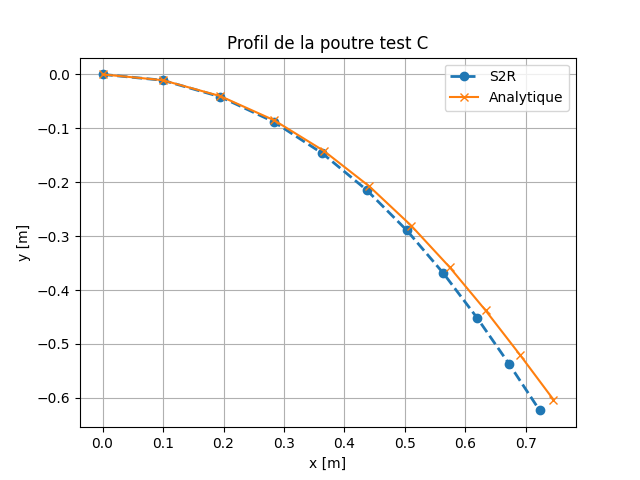
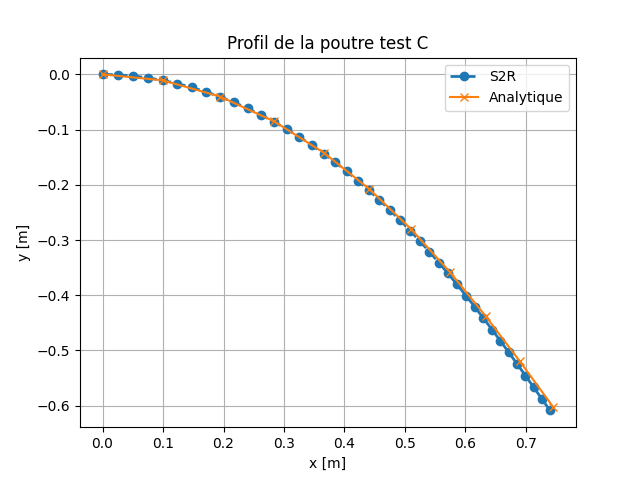
Analyse de convergence pour F2S et S2R

diff --git a/testA_elastica.py b/testA_elastica.py
@@ -1,0 +1,121 @@
+import sys
+import os
+sys.path.insert(0, os.path.expanduser('~/PyElastica'))
+
+
+import numpy as np
+from elastica import *
+from elastica.timestepper import integrate
+from scipy.spatial.transform import Rotation as R  # Pour la conversion en quaternions
+from elastica.external_forces import EndpointForces
+
+class HorizontalRodSimulator(BaseSystemCollection, Constraints, Forcing, Damping, CallBacks):
+    pass
+
+# ============================================
+# CONFIGURATION DU SIMULATEUR
+# ============================================
+rod_sim = HorizontalRodSimulator()
+
+n_elements = 10
+base_length = 1 
+base_radius = 0.01  
+total_mass = 1  # pas de masse
+youngs_modulus = 1e6
+poisson_ratio = 0.38  
+
+volume = np.pi * base_radius**2 * base_length
+density = total_mass / volume  
+shear_modulus = youngs_modulus / (2.0 * (1.0 + poisson_ratio))
+
+I = np.pi * base_radius**4 / 4.0
+EI = youngs_modulus * I
+
+# Créer la tige
+rod = CosseratRod.straight_rod(
+    n_elements=n_elements,
+    start=np.array([0.0, 0.0, 0.0]),
+    direction=np.array([1.0, 0.0, 0.0]),
+    normal=np.array([0.0, 1.0, 0.0]),
+    base_length=base_length,
+    base_radius=base_radius,
+    density=density,
+    youngs_modulus=youngs_modulus,
+    shear_modulus=shear_modulus
+)
+rod_sim.append(rod)
+
+# Forces, limites et amortissement
+rod_sim.constrain(rod).using(OneEndFixedBC, constrained_position_idx=(0,), constrained_director_idx=(0,))
+rod_sim.dampen(rod).using(AnalyticalLinearDamper, uniform_damping_constant=0.1, time_step=1e-4)
+
+F_small = 1.0e-3
+start_force = np.array([0, 0, 0])
+end_force = np.array([0, -F_small, 0])
+rod_sim.add_forcing_to(rod).using(EndpointForces, start_force=start_force, end_force=end_force, ramp_up_time=1.0)
+
+rod_sim.finalize()
+
+# Configuration temporelle
+final_time = 300.0  
+time_step = 1e-4
+total_steps = int(final_time / time_step)
+
+timestepper = PositionVerlet()
+do_step, stages_and_updates = extend_stepper_interface(timestepper, rod_sim)
+
+save_interval = 200  
+
+# ============================================
+# BOUCLE DE SIMULATION ET EXPORT TEXTE
+# ============================================
+nom_fichier = "donnees_tige.txt"
+print(f"Simulation démarrée. Écriture dans : {nom_fichier}...")
+
+with open(nom_fichier, "w") as f:
+    # Écriture de l'en-tête pour s'y retrouver
+    f.write("# Fichier de données PyElastica pour couplage/test SOFA\n")
+    f.write(f"# n_elements = {n_elements} (n_nodes = {n_elements + 1})\n")
+    f.write("# Format par frame :\n")
+    f.write("# FRAME [num_frame] TIME [temps]\n")
+    f.write("# NODE [idx] x y z\n")
+    f.write("# ELEM [idx] qw qx qy qz\n")
+    f.write("# --------------------------------------------------------\n")
+
+    frame_count = 0
+
+    for step in range(total_steps):
+        time = step * time_step
+        
+        if step % save_interval == 0:
+            f.write(f"FRAME {frame_count} TIME {time:.4f}\n")
+            
+            # 1. Sauvegarde des POSITIONS (définies aux Noeuds : n_elements + 1)
+            positions = rod.position_collection # Shape (3, n_nodes)
+            for i in range(positions.shape[1]):
+                f.write(f"NODE {i} {positions[0, i]:.6f} {positions[1, i]:.6f} {positions[2, i]:.6f}\n")
+            
+            # 2. Sauvegarde des ORIENTATIONS (définies aux Éléments : n_elements)
+            # PyElastica stocke des matrices de rotation 3x3 pour chaque élément
+            directors = rod.director_collection # Shape (3, 3, n_elements)
+            for e in range(directors.shape[2]):
+                matrice_rotation = directors[:, :, e]
+                
+                # Conversion de la matrice 3x3 en Quaternion (Scipy utilise le format x, y, z, w)
+                r = R.from_matrix(matrice_rotation)
+                quat = r.as_quat() 
+                
+                # Réorganisation au format standard (w, x, y, z) souvent préféré en physique/SOFA
+                qw, qx, qy, qz = quat[3], quat[0], quat[1], quat[2]
+                
+                f.write(f"ELEM {e} {qw:.6f} {qx:.6f} {qy:.6f} {qz:.6f}\n")
+            
+            frame_count += 1
+            
+            if frame_count % 100 == 0:
+                print(f"Progression : {step / total_steps * 100:.1f}% ({frame_count} frames écrites)")
+
+        # Pas de simulation
+        do_step(timestepper, stages_and_updates, rod_sim, time, time_step)
+
+print(f"\nTerminé ! {frame_count} frames ont été exportées avec succès.")

diff --git a/Rod_StaticValidation.py b/Rod_StaticValidation.py
@@ -31,8 +31,6 @@ from scipy.integrate import solve_bvp
 from readData import lire_donnees_tige, lire_monitor_sofa
 
 nb_section = 10
-beam_length = 1
-
 
 L = 1.0                       # longueur [m]
 radius = 0.01                 # rayon section circulaire [m]
@@ -40,7 +38,7 @@ E = 1.0e6                      # module de Young [Pa]
 I = np.pi * radius**4 / 4.0    # moment d'inertie de section [m^4]
 EI = E * I
  
-# print(f"EI = {EI:.6e} N.m^2")
+# # print(f"EI = {EI:.6e} N.m^2")
  
  
 
@@ -352,24 +350,24 @@ EI = E * I
 
 ## Test C
 
-data_testC = np.loadtxt("test_C_profile.txt")
+# data_testC = np.loadtxt("test_C_profile.txt")
 
-x_testC = data_testC[0:, 1]
-y_testC = data_testC[0:, 2]
+# x_testC = data_testC[0:, 1]
+# y_testC = data_testC[0:, 2]
 
-data_sofa_testC = lire_monitor_sofa("s2r_test_C_profile.txt", beam_length=L, nb_section=nb_section)
+# data_sofa_testC = lire_monitor_sofa("s2r_test_C_profile.txt", beam_length=L, nb_section=nb_section)
 
-pos_testC = data_sofa_testC[len(data_sofa_testC)-1]["pos"]
-x_sofa_testC = pos_testC[:, 0]
-y_sofa_testC = pos_testC[:, 1]
+# pos_testC = data_sofa_testC[len(data_sofa_testC)-1]["pos"]
+# x_sofa_testC = pos_testC[:, 0]
+# y_sofa_testC = pos_testC[:, 1]
 
-plt.plot(x_sofa_testC, y_sofa_testC, 'o--', linewidth=2, label="S2R")
-plt.plot(x_testC, y_testC, 'x-', label="Analytique")
-plt.legend()
-plt.xlabel("x [m]")
-plt.ylabel("y [m]")
-plt.title("Profil de la poutre test C")
-plt.grid()
-plt.savefig("s2r_test_C_profile.png")
-plt.show()
+# plt.plot(x_sofa_testC, y_sofa_testC, 'o--', linewidth=2, label="S2R")
+# plt.plot(x_testC, y_testC, 'x-', label="Analytique")
+# plt.legend()
+# plt.xlabel("x [m]")
+# plt.ylabel("y [m]")
+# plt.title("Profil de la poutre test C")
+# plt.grid()
+# plt.savefig("s2r_test_C_profile.png")
+# plt.show()
 

diff --git a/testA_f2s.py b/testA_f2s.py
@@ -10,7 +10,7 @@ from cosserat import BeamGeometryParameters, CosseratGeometry
 
 stiffness_param: float = 1e10
 v_damping_param: float = 1. # Damping parameter for dynamics
-nb_section: int = 10
+nb_section: int = 1024
 beam_length: float = 1.0
 beam_radius: float = 0.01
 youngModulus: float = 1e6
@@ -39,7 +39,7 @@ def createScene(root):
     root.addObject("DefaultAnimationLoop")
 
 
-    root.dt = 1e-2
+    root.dt = 1e-4
 
     # Configure time integration and solver
 
@@ -52,7 +52,7 @@ def createScene(root):
                      vdamping=v_damping_param
                      )
     
-    solver.addObject("CGLinearSolver", iterations=1000, tolerance=1e-14, threshold=1e-14)
+    solver.addObject("SparseLDLSolver", template="CompressedRowSparseMatrixMat3x3d")
 
     beam_geometry_params = BeamGeometryParameters(
         beam_length=beam_length,
@@ -99,7 +99,7 @@ def createScene(root):
     )
     frame_node.addObject("FixedProjectiveConstraint", indices="0")
     F_small = 1.0e-3
-    frame_node.addObject("ConstantForceField", indices="10", forces=[0, -F_small, 0, 0, 0, 0])
+    frame_node.addObject("ConstantForceField", indices="1024", forces=[0, -F_small, 0, 0, 0, 0])
 
     ## bending node
     custom_bending_states = [[0, 0, 0, 1, 0, 0] for _ in range(nb_section)]

diff --git a/testA_s2r.py b/testA_s2r.py
@@ -9,7 +9,7 @@ from cosserat import BeamGeometryParameters, CosseratGeometry
 
 stiffness_param: float = 1e10
 v_damping_param: float = 1. #3e-1  # Damping parameter for dynamics
-nb_section: int = 10
+nb_section: int = 1024
 beam_length: float = 1.0
 beam_radius: float = 0.01
 youngModulus: float = 1e6
@@ -38,7 +38,7 @@ def createScene(root):
     )
     root.addObject("DefaultAnimationLoop")
 
-    root.dt = 1e-2
+    root.dt = 1e-4
 
     # Configure time integration and solver
 
@@ -51,7 +51,7 @@ def createScene(root):
                      vdamping=v_damping_param
                      )
     
-    solver.addObject("SparseLDLSolver")
+    solver.addObject("SparseLDLSolver", template="CompressedRowSparseMatrixd")
 
     beam_geometry_params = BeamGeometryParameters(
         beam_length=beam_length,
@@ -122,7 +122,7 @@ def createScene(root):
     )
     
     F_small = 1e-3
-    frame_node.addObject("ConstantForceField", indices="10", forces=[0, -F_small, 0, 0, 0, 0])
+    frame_node.addObject("ConstantForceField", indices="1024", forces=[0, -F_small, 0, 0, 0, 0])
 
     frame_node.addObject(
     "Strain2RigidCosseratMapping", 

diff --git a/testC_s2r.py b/testC_s2r.py
@@ -9,7 +9,7 @@ from cosserat import BeamGeometryParameters, CosseratGeometry
 
 stiffness_param: float = 1e10
 v_damping_param: float = 1. #3e-1  # Damping parameter for dynamics
-nb_section: int = 10
+nb_section: int = 40
 beam_length: float = 1.0
 beam_radius: float = 0.01
 youngModulus: float = 1e6
@@ -125,7 +125,7 @@ def createScene(root):
         showObjectScale=0.8,
     )
     
-    frame_node.addObject("ConstantForceField", indices="10", forces=[0, -F_large, 0, 0, 0, 0])
+    frame_node.addObject("ConstantForceField", indices="40", forces=[0, -F_large, 0, 0, 0, 0])
 
     frame_node.addObject(
     "Strain2RigidCosseratMapping", 